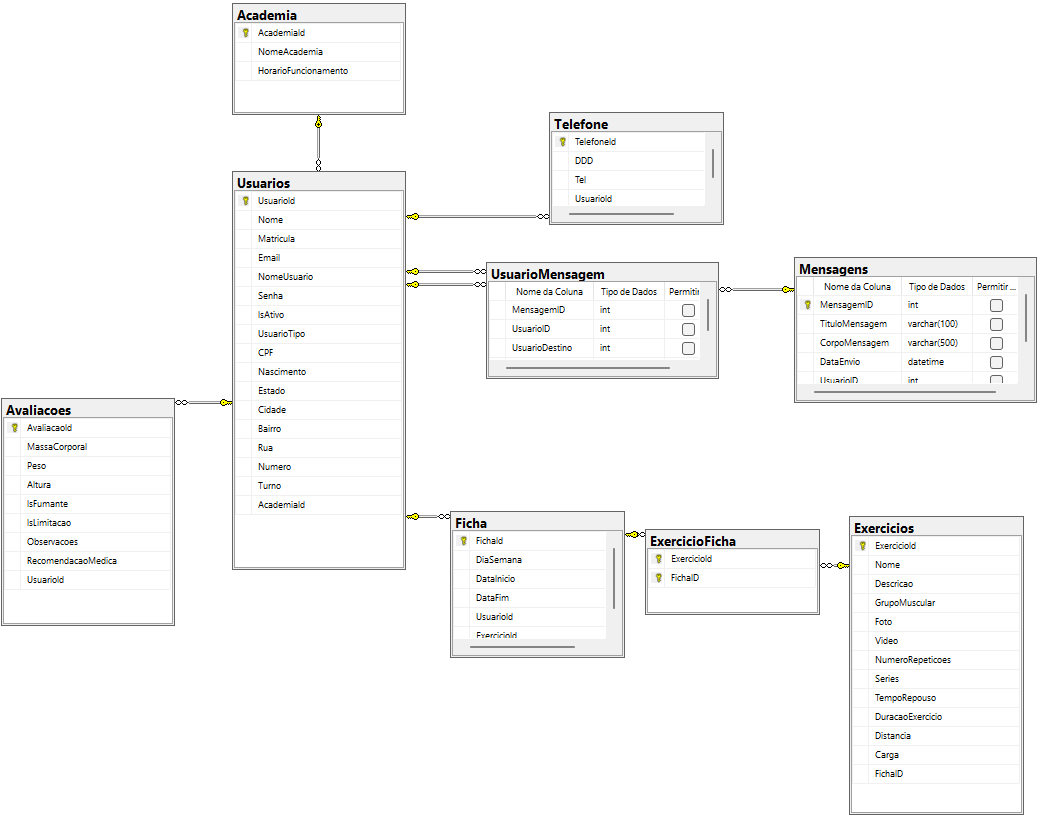
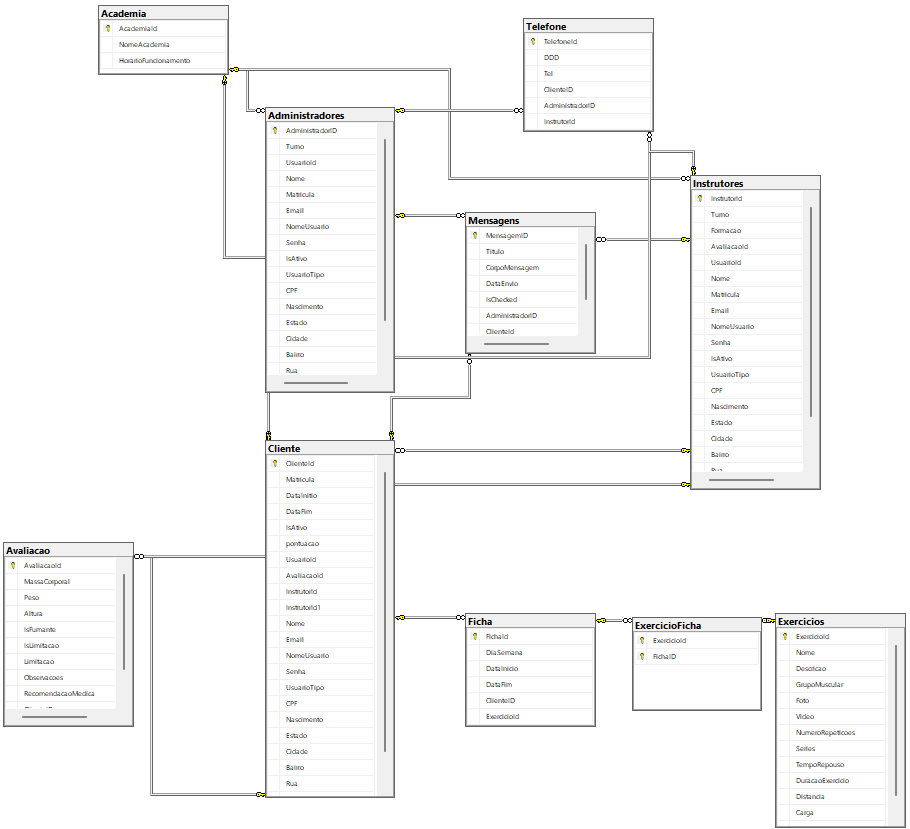
Add wireframes - update database

Changed region(s): [[0.0, 0.0, 1.0, 1.0]]

diff --git a/docs/04-Projeto de Interface.md b/docs/04-Projeto de Interface.md
@@ -22,15 +22,26 @@ As referências abaixo irão auxiliá-lo na geração do artefato “Diagramas d
 
 ## Wireframes
 
-![Exemplo de Wireframe](img/wireframe-example.png)
+### <p>Página: Criar/Editar Ficha do Cliente</p>
 
-São protótipos usados em design de interface para sugerir a estrutura de um site web e seu relacionamentos entre suas páginas. Um wireframe web é uma ilustração semelhante do layout de elementos fundamentais na interface.
- 
-> **Links Úteis**:
-> - [Protótipos vs Wireframes](https://www.nngroup.com/videos/prototypes-vs-wireframes-ux-projects/)
-> - [Ferramentas de Wireframes](https://rockcontent.com/blog/wireframes/)
-> - [MarvelApp](https://marvelapp.com/developers/documentation/tutorials/)
-> - [Figma](https://www.figma.com/)
-> - [Adobe XD](https://www.adobe.com/br/products/xd.html#scroll)
-> - [Axure](https://www.axure.com/edu) (Licença Educacional)
-> - [InvisionApp](https://www.invisionapp.com/) (Licença Educacional)
+<p align="center"> 
+  <img src="img/wireframes/Criar-EditarFicha.png" width="1000">  
+</p>
+
+##### _Figura - Criar/Editar Ficha do Cliente_
+
+### <p>Página: Exercicios do Aluno</p>
+
+<p align="center"> 
+  <img src="img/wireframes/TelaExerciciosALUNOS.png" width="1000">  
+</p>
+
+##### _Figura - Exercicios_
+
+### <p>Página: Instrutor lista seus clientes</p>
+
+<p align="center"> 
+  <img src="img/wireframes/TelaListarClientesInstrutor.png" width="1000">  
+</p>
+
+##### _Figura - Listar Clientes

diff --git a/docs/05-Arquitetura da Solução.md b/docs/05-Arquitetura da Solução.md
@@ -19,10 +19,17 @@ O diagrama de classes ilustra graficamente como será a estrutura do software, e
 O Modelo ER representa através de um diagrama como as entidades (coisas, objetos) se relacionam entre si na aplicação interativa.
 
 <p align="center"> 
-  <img src="img/diagramas/ER.png" width="800">
+  <img src="img/diagramas/ER.png" width="1000">
 </p>
  
 ##### _Figura 2 - Diagrama Entidade Relacionamento_
+
+<p align="center"> 
+
+  <img  scr = "https://user-images.githubusercontent.com/114198140/230735169-c585ef7d-2e68-464b-ba0e-5442fa8282ec.jpg" largura ="800" >
+   </p>
+
+##### _Figura 3 - Diagrama Entidade Relacionamento_
 
 ## Projeto da Base de Dados
 
